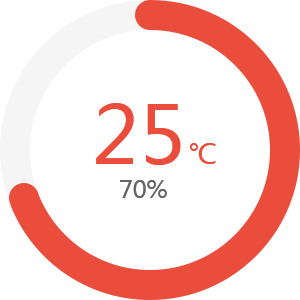
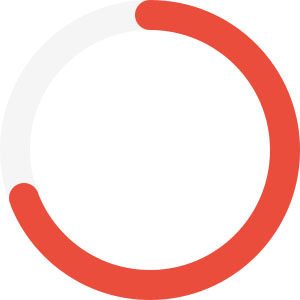
ws

diff --git a/resources/views/admin/device/adjust.blade.php b/resources/views/admin/device/adjust.blade.php
@@ -196,6 +196,31 @@
             flex: 100% 0 0;
             -webkit-box-flex: 100% 0 0;
         }
+
+        .best-weather {
+            width: 300px;
+            height: 300px;
+            float: left;
+            display: box;
+            display: -webkit-box;
+            display: -moz-box;
+            -webkit-box-pack: center;
+            -moz-box-pack: center;
+            -webkit-box-align: center;
+            -moz-box-align: center;
+            background-image: url("{{asset('hplus/css/images/control.png')}}")
+        }
+
+        #best-temp {
+            color: #EA4D3C;
+            padding-left: 33px;
+            font-size: 9rem;
+        }
+
+        #best-temp i {
+            font-size: 3rem;
+            vertical-align: text-top;
+        }
     </style>
 </head>
 
@@ -235,7 +260,7 @@
                     </h5>
                 </div>
                 <div class="ibox-content">
-                    <h1><i class="room_temp">26</i><b>℃</b></h1>
+                    <h1><i class="room_temp"></i><b>℃</b></h1>
                     <div class="text">
                         <span class="text-time">2017年4月14日</span>
                         <span class="text-weather">晴</span>
@@ -282,8 +307,13 @@
             </div>
             <div class="ibox-content">
                 <div class="content">
-                    <img style="float: left;width: 300px;height: 300px;" src="{{asset('hplus/css/images/control.png')}}"
-                         alt="">
+                    {{--<img style="float: left;width: 300px;height: 300px;" "--}}
+                    {{--alt="">--}}
+                    <div class="best-weather">
+                        <p id="best-temp">25<i>℃</i></p>
+                        <p style="position: relative;top: 5rem;left: -7rem;font-size: 2rem;">70%</p>
+                    </div>
+
                     <ul class="content-desc">
                         <li><span>计算取值：</span></li>
                         <li>
@@ -313,7 +343,7 @@
                     </ul>
                 </div>
                 {{--<div class="bottom">--}}
-                    {{--备注:60%取值24℃，70%取值25℃，80%取值26℃--}}
+                {{--备注:60%取值24℃，70%取值25℃，80%取值26℃--}}
                 {{--</div>--}}
             </div>
         </div>
@@ -443,6 +473,16 @@
 
 
     $(function () {
+
+        // 调用当前天气
+        $.getJSON("{{url('admin/device/get-weather')}}", {}, function (res) {
+            var temps = res.weatherinfo.temp1.substr(0, 2);
+            $(".room_temp").text(temps);
+            $(".room_humidity").text(res.weatherinfo.temp2.substr(0, 2));
+            $(".text-weather").text(res.weatherinfo.weather);
+
+            $("#best-temp").html(Math.ceil((temps - 0) / 0.7) + '<i>℃</i>');
+        });
 
         gizwitsws = newObj();
         gizwitsws.init();

diff --git a/app/Services/Admin/DeviceService.php b/app/Services/Admin/DeviceService.php
@@ -150,7 +150,7 @@ class DeviceService extends BaseService
             if ($param['area_id']) {
                 $where[] = ['area_id', '=', $param['area_id']];
             }
-            if(isset($param['username'])){
+            if (isset($param['username'])) {
                 $where[] = ['name', '=', $param['username']];
             }
 
@@ -284,6 +284,32 @@ class DeviceService extends BaseService
     }
 
     /**
+     * 定位当前的城市
+     * @Author Krlee
+     *
+     */
+    public function getNowCity()
+    {
+        $url = 'http://api.map.baidu.com/location/ip?ak=pByihVCvPliqWIRAOOhPLtue&coor=bd09ll';
+        $result = curl_do($url);
+        $res = json_decode($result, true);
+
+        $city = $res['content']['address_detail']['city'];
+        $city = str_replace("市", "", $city);
+
+        $result = DB::table('weather')->where('name', $city)->first(['code']);
+
+        return $result->code;
+    }
+
+    public function getNowWeather($cityCode)
+    {
+        $url = 'http://www.weather.com.cn/data/cityinfo/' . $cityCode . '.html';
+
+        return curl_do($url);
+    }
+
+    /**
      * 添加设备
      * @Author Krlee
      *
@@ -292,7 +318,7 @@ class DeviceService extends BaseService
     {
         $gizwitsCfg = Config::get('gizwits.cfg');
 
-        $gizwit_id = array_get($data,'user_id') ?: \Auth::user()->id;
+        $gizwit_id = array_get($data, 'user_id') ?: \Auth::user()->id;
         if (!$gizwit_id) {
             return false;
         }

diff --git a/app/Http/Middleware/AdminAuth.php b/app/Http/Middleware/AdminAuth.php
@@ -31,19 +31,19 @@ class AdminAuth
             $str = 'admin.index.dashboard';
         }
 
-        if (!Auth::user()->may($str) && !$request->ajax()) {
-//            if ($request->ajax() && ($request->getMethod() != 'GET')) {
-//                return response()->json([
-//                    'code' => 403,
-//                    'msg' => '您没有权限执行此操作'
-//                ]);
-//            } else {
-//                return response('权限不足.', 403);
-//            }
-
-            return response('权限不足.', 403);
-
-        }
+//        if (!Auth::user()->may($str) && !$request->ajax()) {
+////            if ($request->ajax() && ($request->getMethod() != 'GET')) {
+////                return response()->json([
+////                    'code' => 403,
+////                    'msg' => '您没有权限执行此操作'
+////                ]);
+////            } else {
+////                return response('权限不足.', 403);
+////            }
+//
+//            return response('权限不足.', 403);
+//
+//        }
 
         return $next($request);
     }

diff --git a/routes/web.php b/routes/web.php
@@ -104,6 +104,7 @@ Route::group(['namespace' => 'Admin', 'prefix' => 'admin', 'middleware' => ['aut
         Route::any('get-device-count/{deviceId?}', 'DeviceController@getDataCount');   // 存储每次设备返回的状态
         Route::any('save-device-count/{deviceId?}', 'DeviceController@setDataCount');   // 存储每次设备返回的状态
         Route::any('send-electric-cmd', 'DeviceController@sendElectricCmd');   // 存储每次设备返回的状态
+        Route::any('get-weather', 'DeviceController@getWeather');   // 存储每次设备返回的状态
     });
 
     // 电器

diff --git a/app/Http/Controllers/Admin/DeviceController.php b/app/Http/Controllers/Admin/DeviceController.php
@@ -341,4 +341,12 @@ class DeviceController extends BaseController
         return ['RAW_SMARTHOME' => $cmd];
     }
 
+    public function getWeather()
+    {
+        $cityCode = $this->device->getNowCity();
+        $result = $this->device->getNowWeather($cityCode);
+
+        return $result;
+    }
+
 }
